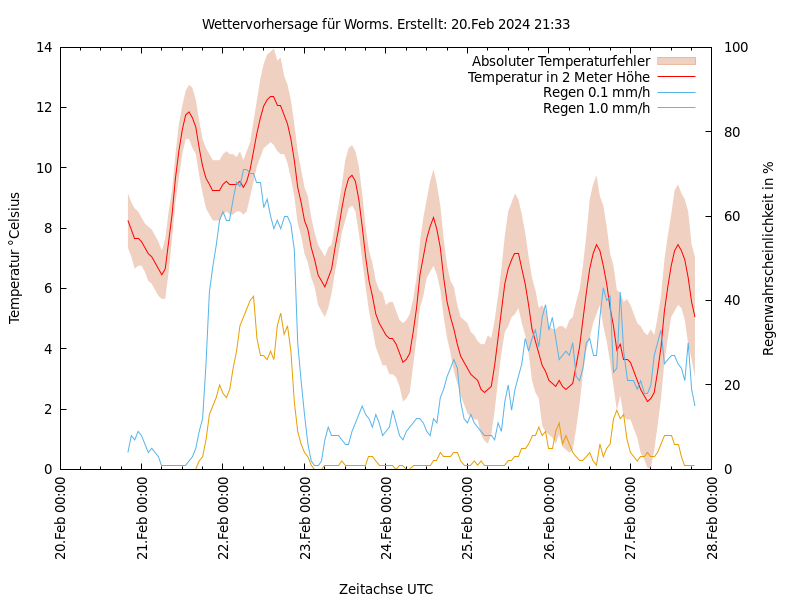
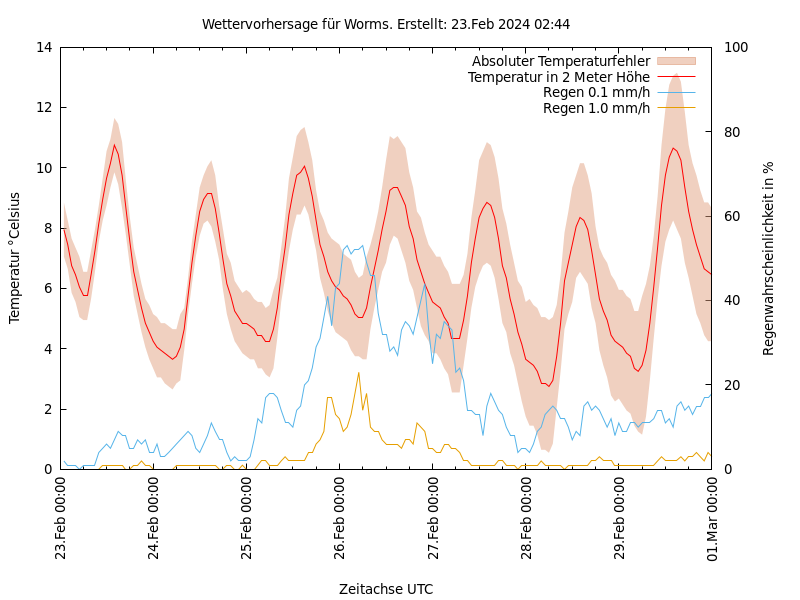
Wettervorhersage aktualisiert

diff --git a/README.md b/README.md
@@ -1,2 +1,2 @@
 # Wettervorhersage
-!Wetter
+für Worms erstellt am: date
